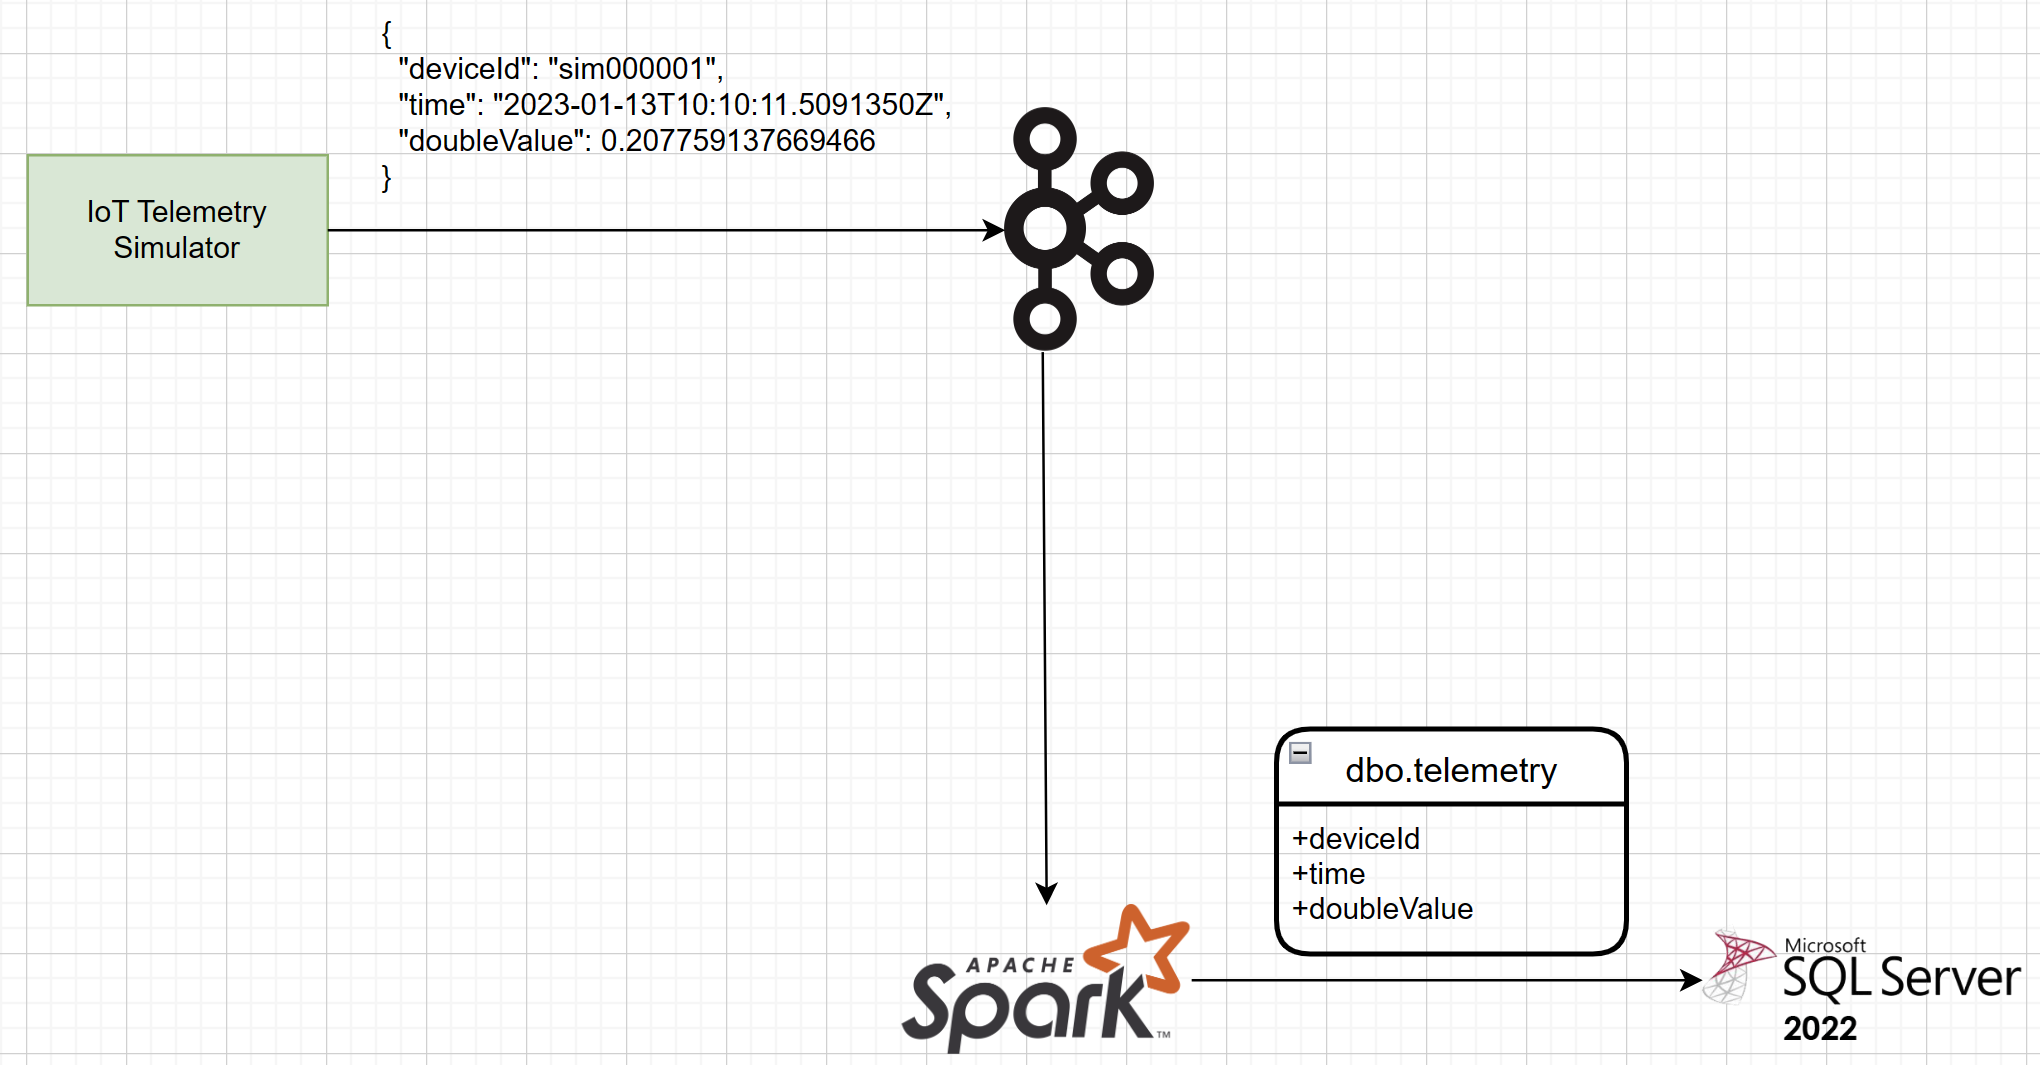
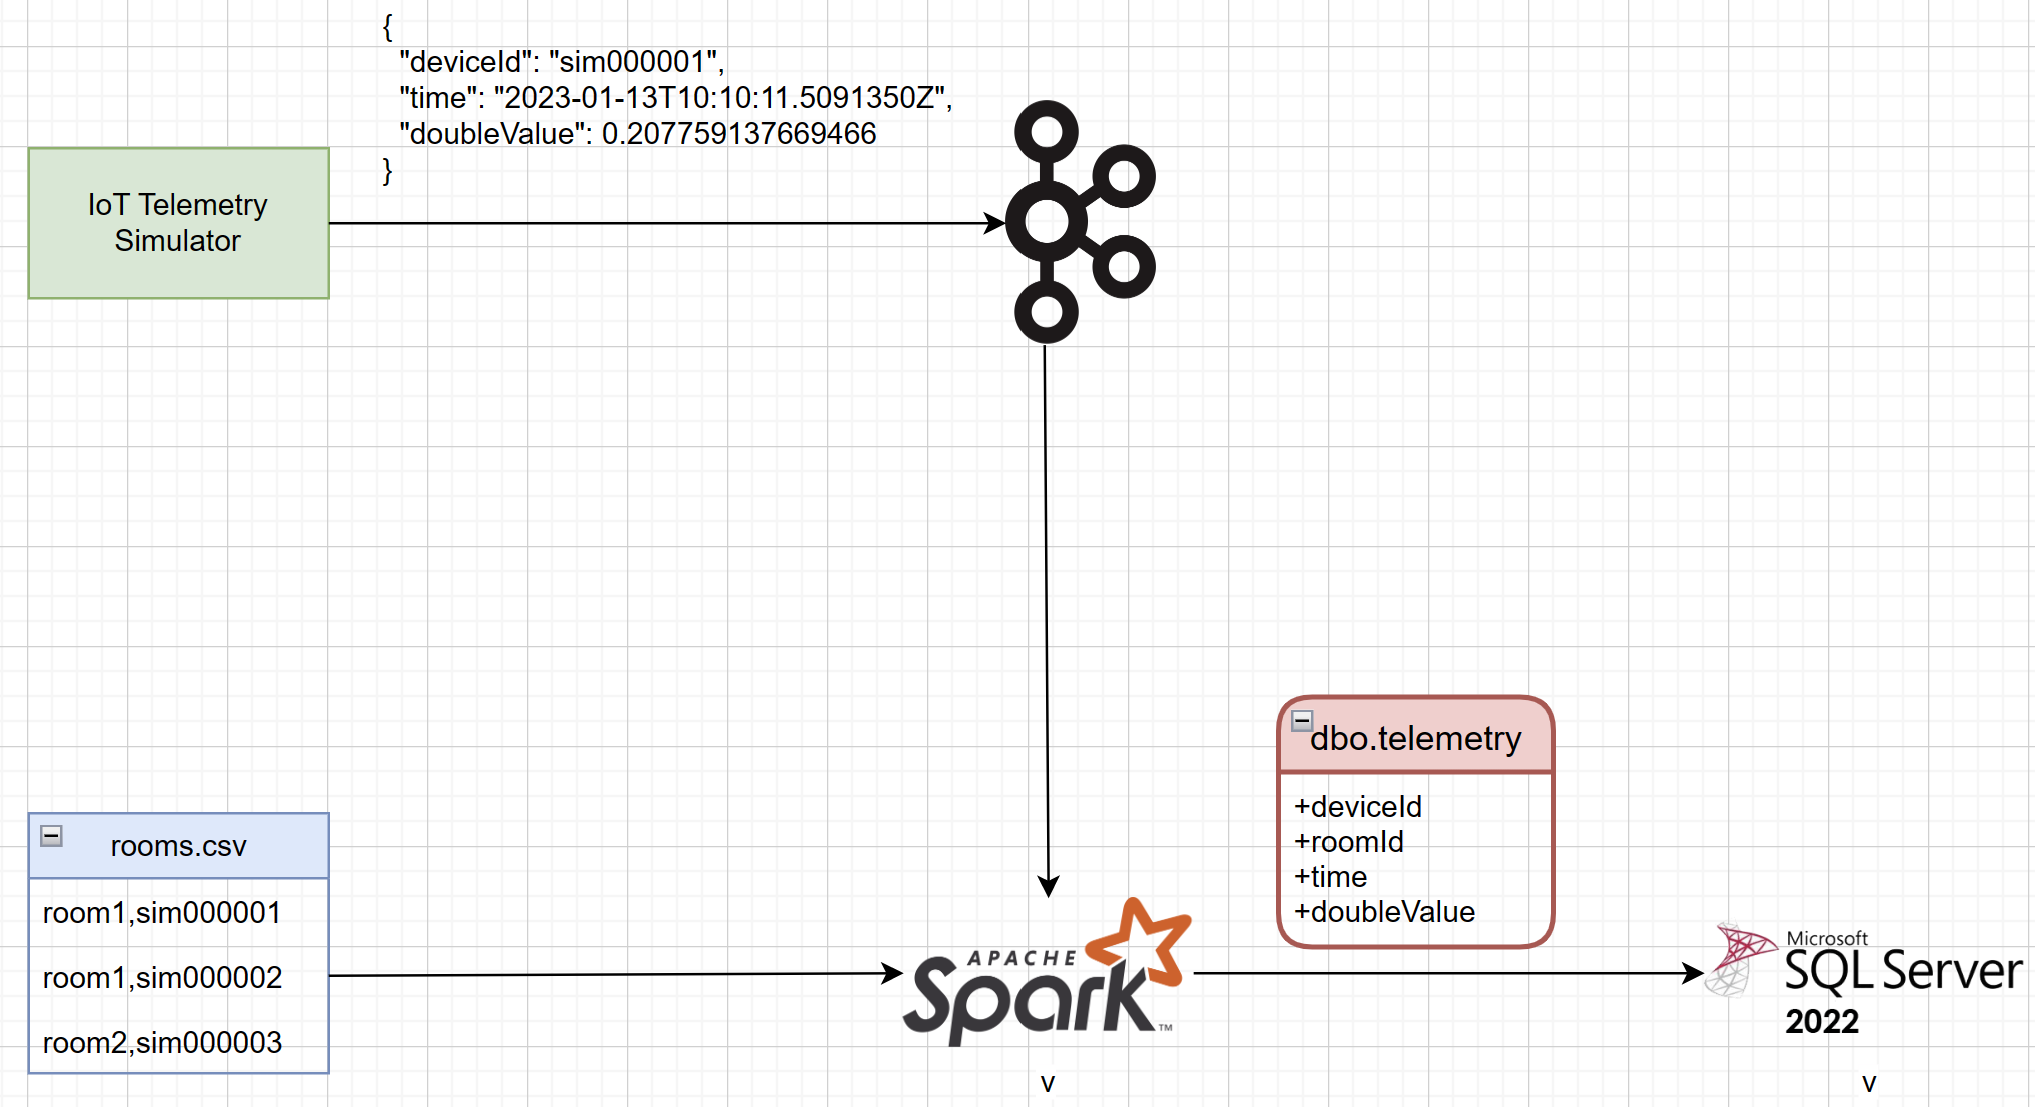
Add CSV data source

diff --git a/main.py b/main.py
@@ -7,8 +7,10 @@ if __name__ == "__main__":
     spark = SparkSession.builder.appName("MyPySparkStreamingApp").getOrCreate()
     spark.sparkContext.setLogLevel("ERROR")
 
-    kafka_broker = os.environ['KAFKA_BROKER']
-    kafka_topic = os.environ['KAFKA_TOPIC']
+    df_rooms = spark.read.csv("/metadata/rooms.csv", header=True, inferSchema=True)
+
+    kafka_broker = os.environ["KAFKA_BROKER"]
+    kafka_topic = os.environ["KAFKA_TOPIC"]
 
     df_stream = spark \
         .readStream \
@@ -35,7 +37,8 @@ if __name__ == "__main__":
         .withWatermark("time", "5 seconds") \
         .groupBy(windowSpec, "deviceId") \
         .agg(F.avg("doubleValue").alias("avgValue")) \
-        .selectExpr("deviceId", "avgValue", "window.start as start", "window.end as end")
+        .join(df_rooms, on="deviceId") \
+        .selectExpr("deviceId", "roomId", "avgValue", "window.start as start", "window.end as end")
 
     # Uncomment for stdout debugging
     # query = df_stream_agg \
@@ -44,8 +47,8 @@ if __name__ == "__main__":
     #     .format("console") \
     #     .start()
 
-    mssql_host = os.environ['MSSQL_HOST']
-    mssql_sa_password = os.environ['MSSQL_SA_PASSWORD']
+    mssql_host = os.environ["MSSQL_HOST"]
+    mssql_sa_password = os.environ["MSSQL_SA_PASSWORD"]
 
     # Using foreachBatch because the sql-spark-connector doesn't directly support writing streams
     query = df_stream_agg.writeStream \
